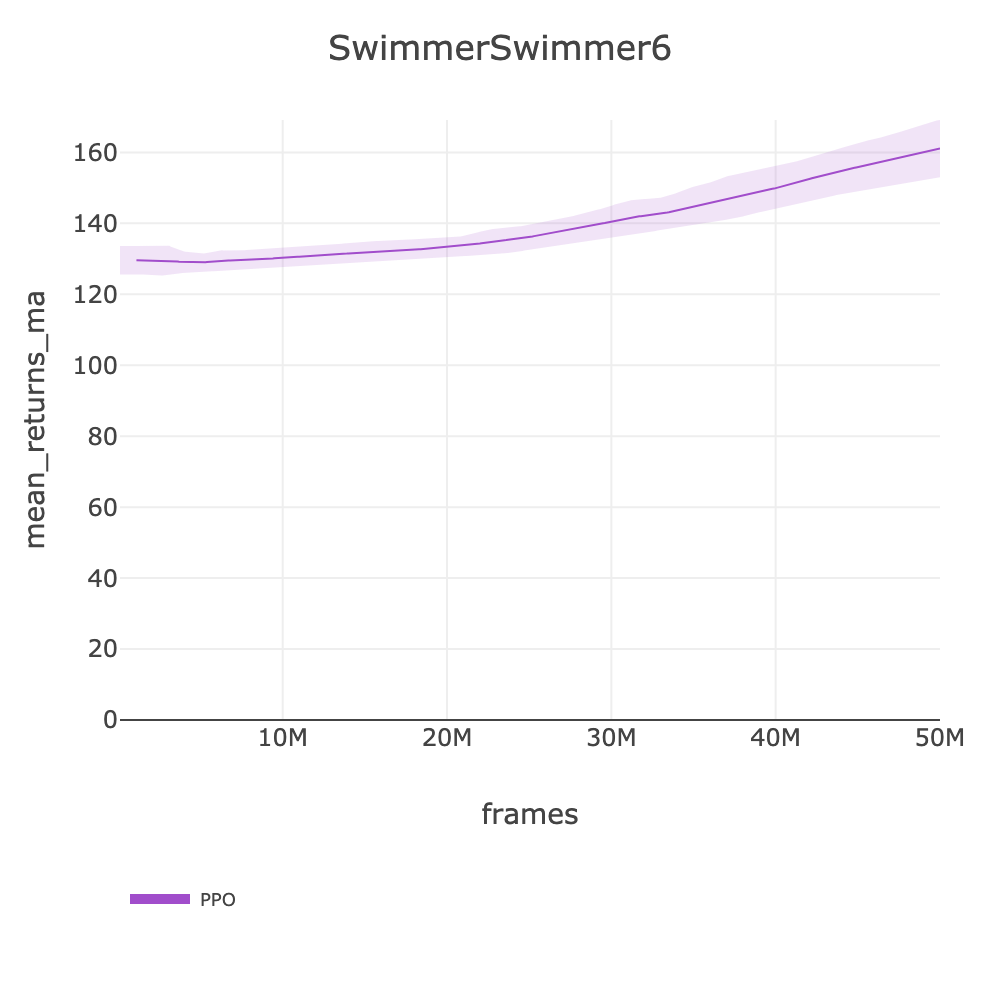
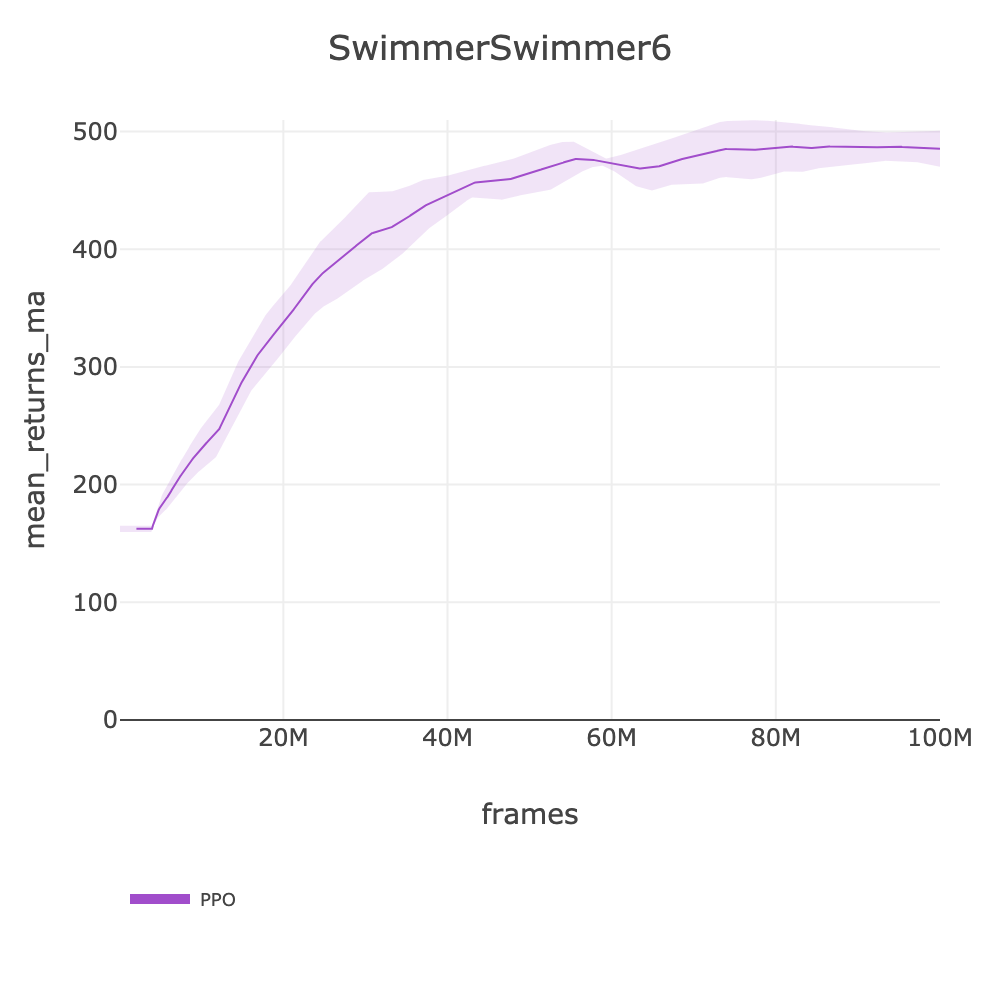
feat: intake PPO SwimmerSwimmer6 (485, ⚠) — plateaued below target 560

diff --git a/docs/BENCHMARKS.md b/docs/BENCHMARKS.md
@@ -946,7 +946,7 @@ source .env && uv run slm-lab run-remote --gpu \
 | playground/ReacherHard | PPO | ✅ | 946.99 | ppo_playground | [ppo_playground_reacherhard_2026_03_12_123226](https://huggingface.co/datasets/SLM-Lab/benchmark-dev/tree/main/data/ppo_playground_reacherhard_2026_03_12_123226) | 950 | 16240 | 100M | 1h 42m |
 | | CrossQ | 🔄 | - | crossq_playground | - | | - | - | - |
 | | SAC | 🔄 | - | sac_playground | - | | - | - | - |
-| playground/SwimmerSwimmer6 | PPO | 🔄 | - | ppo_playground | - | 560 | - | - | - |
+| playground/SwimmerSwimmer6 | PPO | ⚠ | 485.42 | ppo_playground | [ppo_playground_swimmerswimmer6_2026_03_12_124343](https://huggingface.co/datasets/SLM-Lab/benchmark-dev/tree/main/data/ppo_playground_swimmerswimmer6_2026_03_12_124343) | 560 | 12020 | 100M | 2h 19m |
 | | CrossQ | 🔄 | - | crossq_playground | - | | - | - | - |
 | | SAC | 🔄 | - | sac_playground | - | | - | - | - |
 | playground/WalkerRun | PPO | ✅ | 637.80 | ppo_playground | [ppo_playground_walkerrun_2026_03_12_082454](https://huggingface.co/datasets/SLM-Lab/benchmark-dev/tree/main/data/ppo_playground_walkerrun_2026_03_12_082454) | 560 | 11130 | 100M | 2h 30m |
